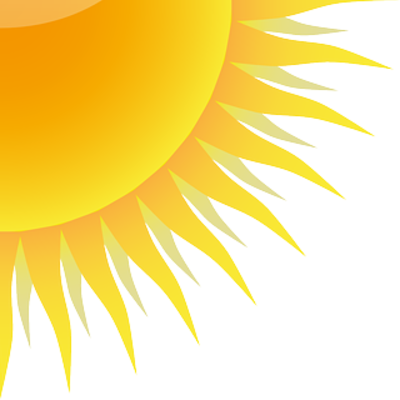
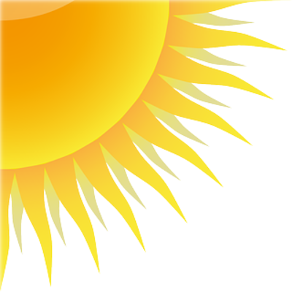
Style

diff --git a/src/app/pages/login/login.page.html b/src/app/pages/login/login.page.html
@@ -4,42 +4,35 @@
 <ion-content>
 
   <ion-grid>
-
     <ion-row justify-content-center>
       <ion-text color="medium">
         <h4>{{'LOGIN.H4' | translate }}</h4>
       </ion-text>
     </ion-row>
-
     <br>
-
     <ion-row justify-content-center>
       <ion-button color="medium" (click)="logStud()">
         <ion-icon name="arrow-dropright"></ion-icon>
         &nbsp;&nbsp;&nbsp; {{'LOGIN.STUDENT' | translate }}
       </ion-button>
     </ion-row>
-
     <br>
-
     <ion-row justify-content-center>
       <ion-button color="medium" (click)="logProf()">
         <ion-icon name="arrow-dropright"></ion-icon>
         &nbsp;&nbsp;&nbsp; {{'LOGIN.PROF' | translate }}
       </ion-button>
     </ion-row>
-
     <br>
-
     <ion-row justify-content-center>
       <ion-text color='primary' (click)='resetPassword()'>{{'LOGIN.FORGET_PASSWORD' | translate}}</ion-text>
     </ion-row>
-
   </ion-grid>
-  
+
 </ion-content>
 
-<footer class="ion-text-center">
-  <ion-label>{{'LOGIN.NOT_SIGNUP' | translate}}</ion-label><ion-label (click)="goRegister()" color= "primary">&nbsp;&nbsp;{{'LOGIN.SIGNUP' | translate}}</ion-label>
-</footer>
-
+<ion-footer class="ion-text-center">
+  <ion-label>{{'LOGIN.NOT_SIGNUP' | translate}}</ion-label>
+  <br>
+  <ion-label (click)="goRegister()" color="primary">&nbsp;&nbsp;{{'LOGIN.SIGNUP' | translate}}</ion-label>
+</ion-footer>

diff --git a/src/app/pages/homelogin/homelogin.page.html b/src/app/pages/homelogin/homelogin.page.html
@@ -1,19 +1,19 @@
 <ion-content>
 
-  <ion-grid >
-      <ion-row class="ion-justify-content-center">
-        <ion-button color="primary" (click)="goLogin()">
-          <ion-icon name="arrow-dropright"></ion-icon>
-          &nbsp;&nbsp;&nbsp; {{'COMMON.SIGNIN' | translate }}
-        </ion-button>
-      </ion-row>
-      <br>
-      <ion-row class="ion-justify-content-center">
-        <ion-button color="primary" (click)="registerAccount()">
-          <ion-icon name="arrow-dropright"></ion-icon>
-          &nbsp;&nbsp;&nbsp; {{'COMMON.SIGNUP' | translate }}
-        </ion-button>
-      </ion-row>
+  <ion-grid>
+    <ion-row class="ion-justify-content-center">
+      <ion-button color="primary" (click)="goLogin()">
+        <ion-icon name="arrow-dropright"></ion-icon>
+        &nbsp;&nbsp;&nbsp; {{'COMMON.SIGNIN' | translate }}
+      </ion-button>
+    </ion-row>
+    <br>
+    <ion-row class="ion-justify-content-center">
+      <ion-button color="primary" (click)="registerAccount()">
+        <ion-icon name="arrow-dropright"></ion-icon>
+        &nbsp;&nbsp;&nbsp; {{'COMMON.SIGNUP' | translate }}
+      </ion-button>
+    </ion-row>
 
   </ion-grid>
 

diff --git a/src/app/app-routing.module.ts b/src/app/app-routing.module.ts
@@ -1,6 +1,5 @@
 import { NgModule } from '@angular/core';
 import { PreloadAllModules, RouterModule, Routes } from '@angular/router';
-import { SignupComponent } from './components/auth/signup/signup.component';
 
 const routes: Routes = [
   {

diff --git a/src/app/pages/homelogin/homelogin.page.scss b/src/app/pages/homelogin/homelogin.page.scss
@@ -4,6 +4,6 @@ ion-grid {
   transform: translateY(-50%);
 }
 
-ion-header {
-
+ion-content {
+  --background: no-repeat url("../../../assets/img/soleil.png");
 }

diff --git a/src/app/pages/login/login.page.scss b/src/app/pages/login/login.page.scss
@@ -6,3 +6,7 @@ ion-grid {
   position: relative;
   top: 25%;
 }
+
+ion-footer {
+  margin-bottom: 20px;
+}
